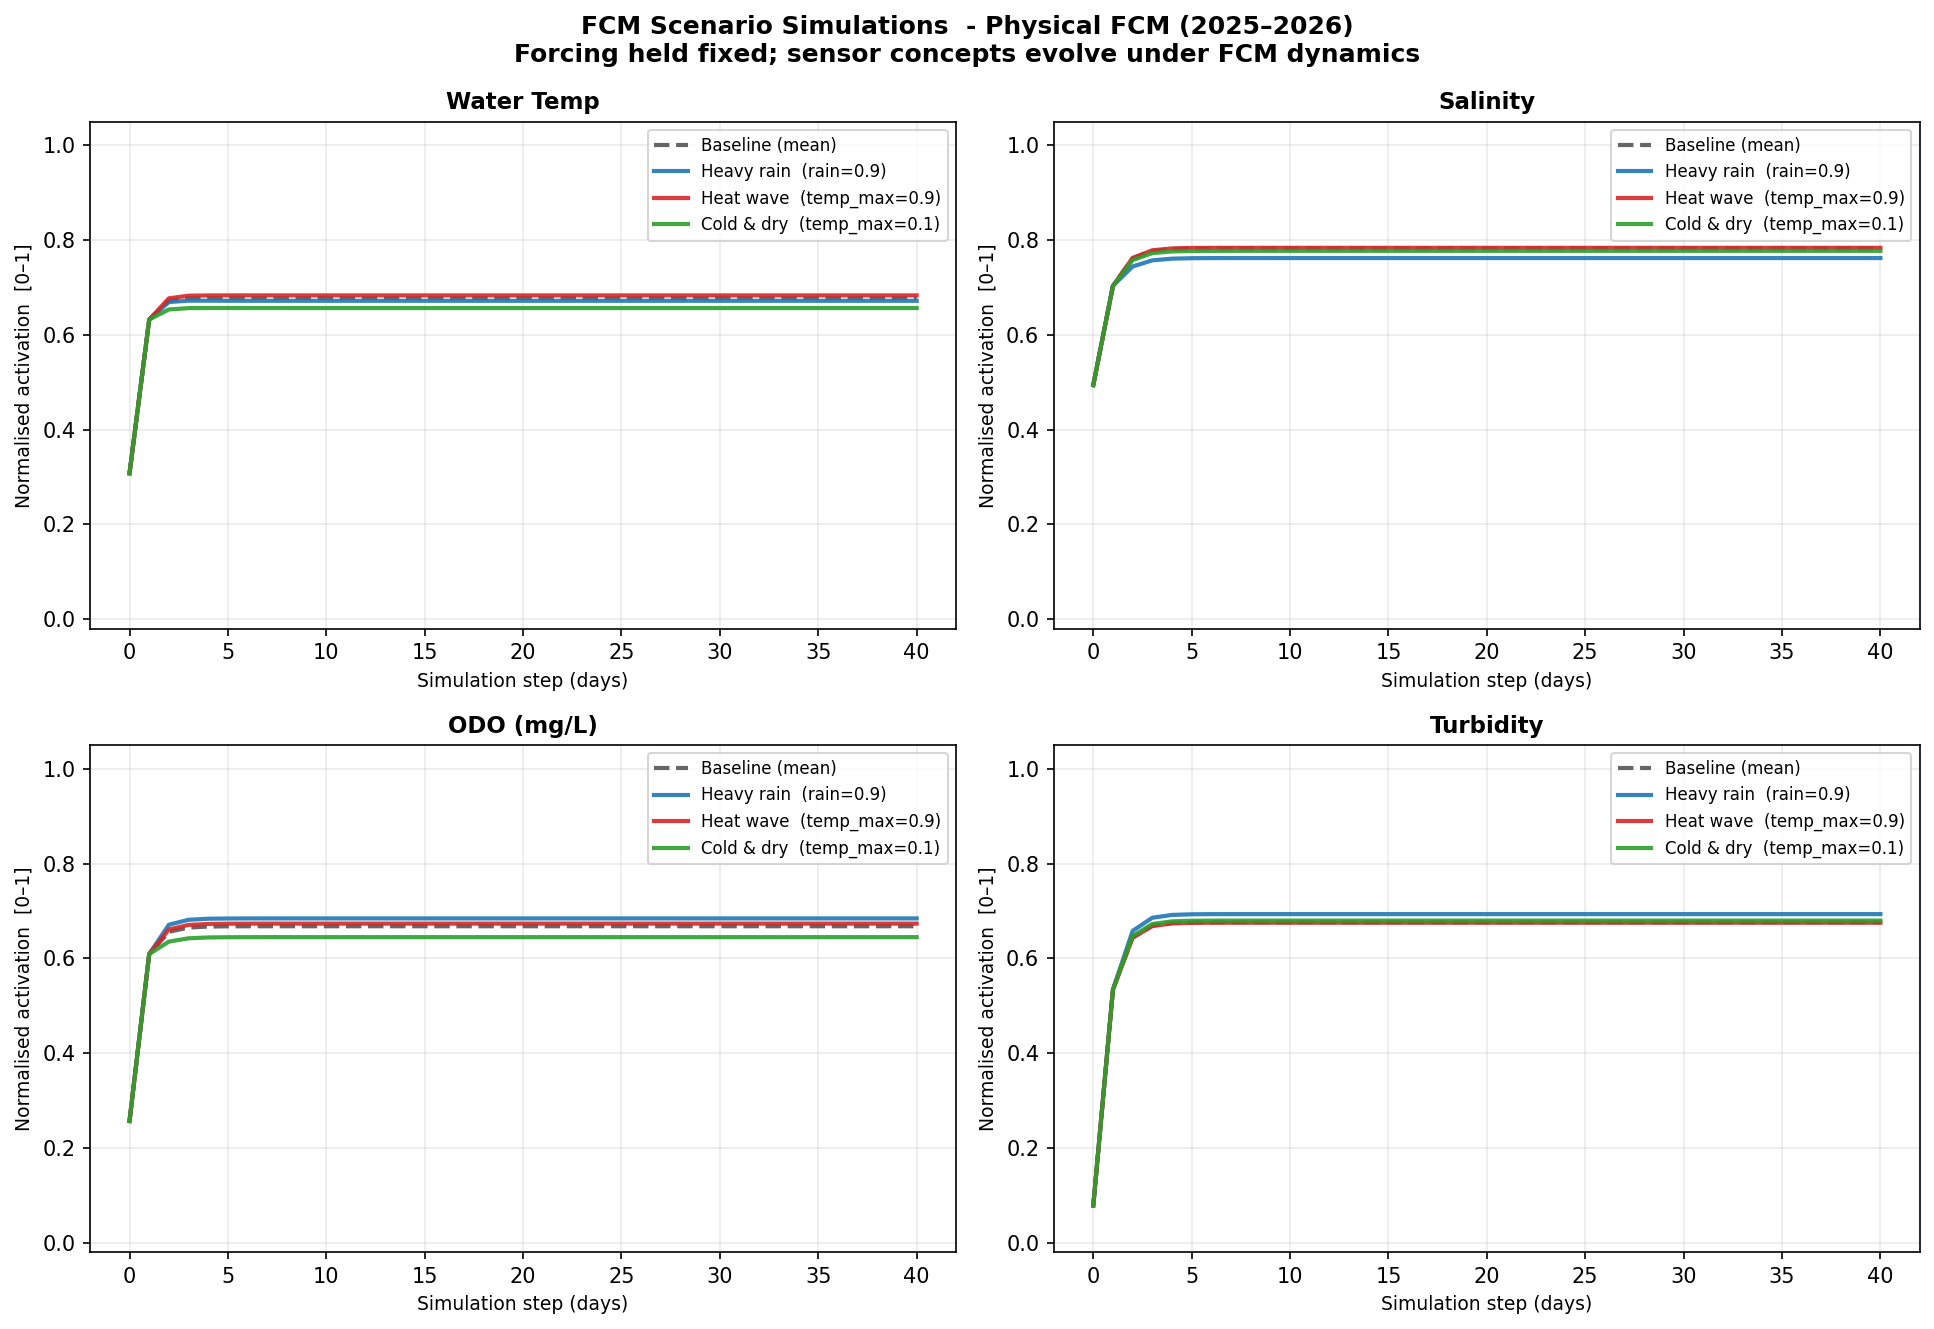
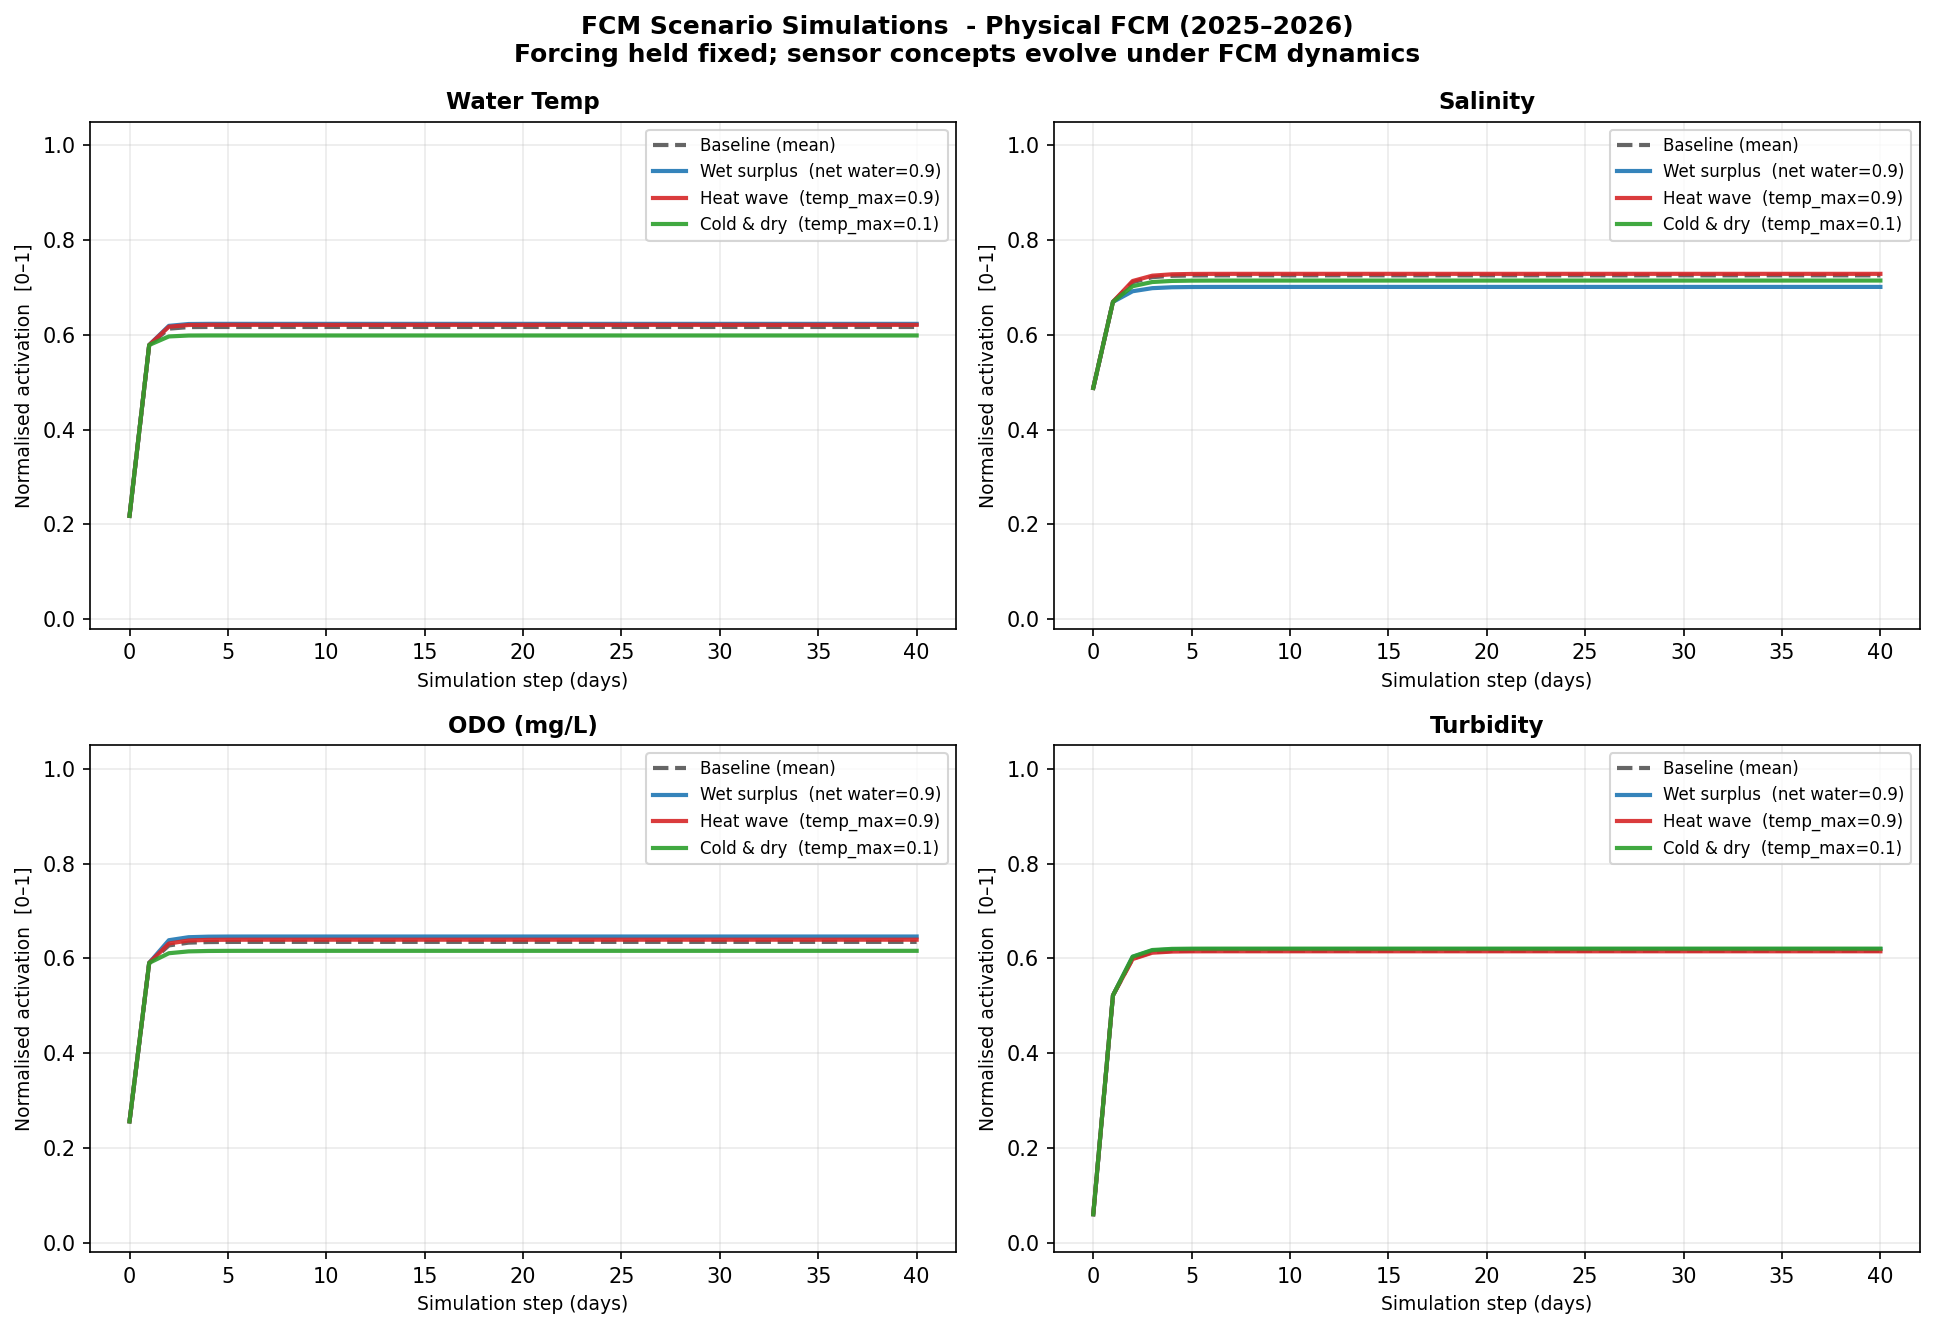
updates on visuals from fcm

diff --git a/fcm.py b/fcm.py
@@ -448,7 +448,8 @@ def fcm_simulate(
     A(t+1)[clamped] = fixed value
     Returns (n_steps+1, C) trajectory.
     """
-    A    = A0.copy()
+    A    = np.nan_to_num(A0.copy(), nan=0.5)
+    clamped_values = np.nan_to_num(clamped_values, nan=0.5)
     traj = [A.copy()]
     for _ in range(n_steps):
         A_new = _sigmoid(W.T @ A)
@@ -624,19 +625,21 @@ def plot_scenarios(
     step_label:   str = "days",
     title_suffix: str = "",
 ) -> None:
+    baseline_A = np.nan_to_num(baseline_A.copy(), nan=0.5)
     mean_forcing = baseline_A[:n_forcing].copy()
     forcing_idx  = list(range(n_forcing))
 
     scenarios = [
         ("Baseline (mean)",           "#555555", mean_forcing.copy()),
-        ("Heavy rain  (rain=0.9)",    "#1f77b4", np.array([0.9, mean_forcing[1], mean_forcing[2]])),
+        ("Wet surplus  (net water=0.9)", "#1f77b4", np.array([0.9, mean_forcing[1], mean_forcing[2]])),
         ("Heat wave  (temp_max=0.9)", "#d62728", np.array([0.05, mean_forcing[1], 0.9])),
         ("Cold & dry  (temp_max=0.1)","#2ca02c", np.array([0.05, mean_forcing[1], 0.1])),
     ]
 
-    # 4 response concepts: water temp, salinity, ODO, + most interesting available
-    candidates = ["temp_c", "sal_ppt", "odo_mgL", "turbidity_fnu",
-                  "chl_a_ugL", "ph", "din_umolL"]
+    # Nutrient FCM gets nutrient response panels; physical FCM gets sensor panels.
+    candidates = (["chl_a_ugL", "no2no3_umolL", "din_umolL", "ph"]
+                  if "din_umolL" in concept_list else
+                  ["temp_c", "sal_ppt", "odo_mgL", "turbidity_fnu"])
     plot_keys  = [c for c in candidates if c in concept_list][:4]
     plot_idxs  = [concept_list.index(c) for c in plot_keys]
     plot_labels= [CONCEPT_LABELS.get(c, c) for c in plot_keys]
@@ -889,7 +892,8 @@ def main() -> None:
         ANALYSIS_DIR / "fcm_weights_nutrient.csv", float_format="%.4f")
     print(f"  Saved → analysis/fcm_weights_nutrient.csv")
 
-    baseline_nutr = arr_nutr.mean(axis=0)
+    baseline_nutr = np.nanmean(arr_nutr, axis=0)
+    baseline_nutr[np.isnan(baseline_nutr)] = 0.5
     _print_causal_summary(W_nutr, NUTR_CONCEPTS, N_FORCING, "Nutrient")
 
     traj_n = fcm_simulate(W_nutr, baseline_nutr.copy(), list(range(N_FORCING)),
